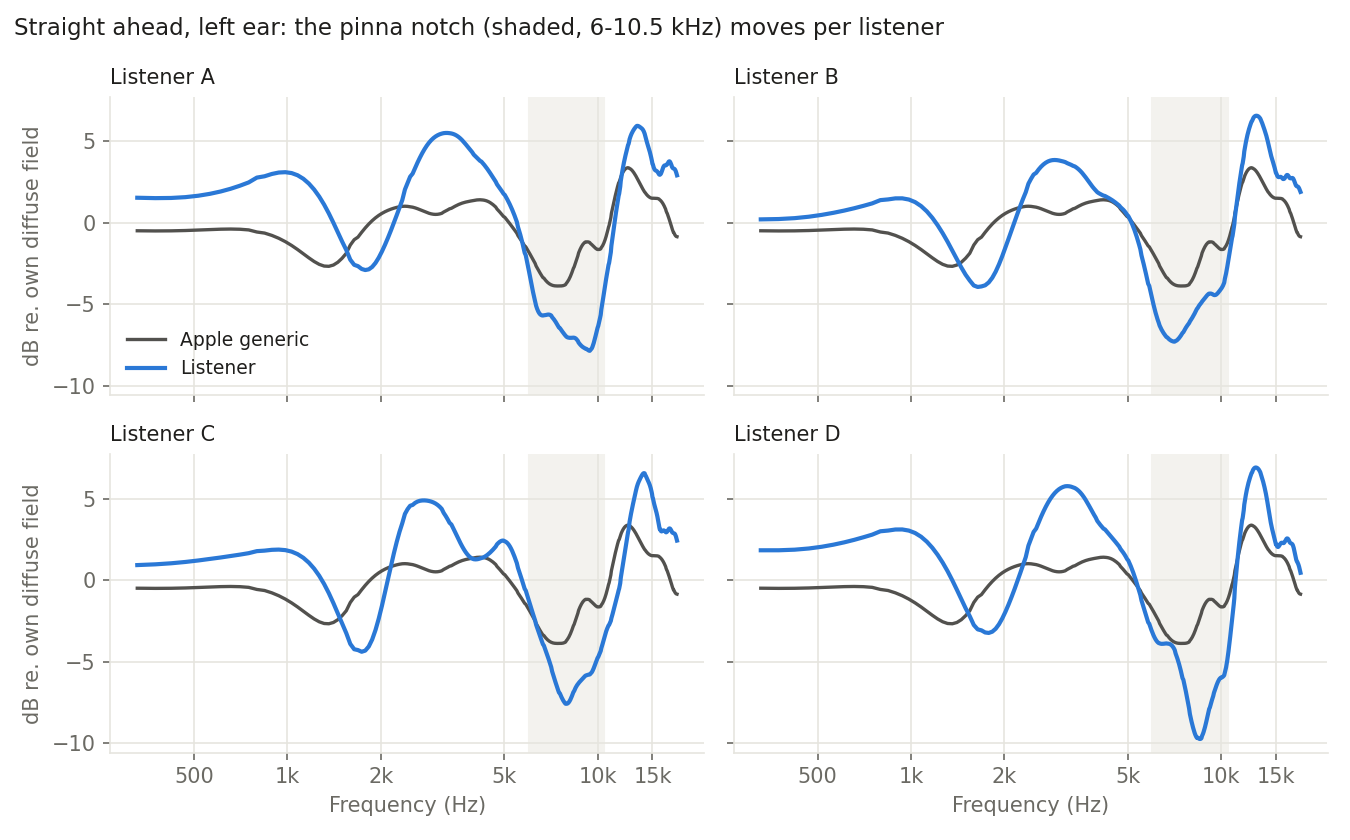
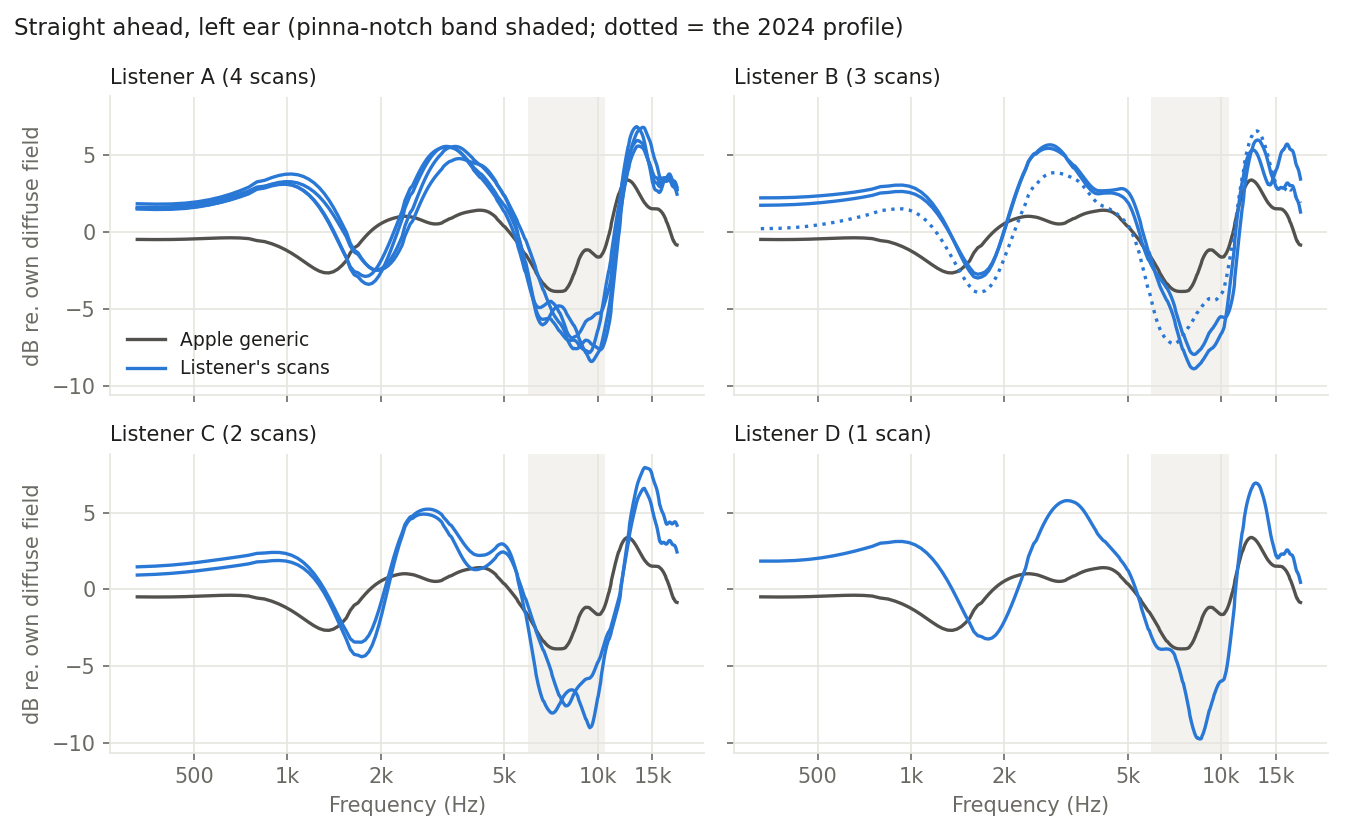
update results

diff --git a/README.md b/README.md
@@ -139,47 +139,56 @@ consistent (IR correlation ≈ 0.986, delays within ≈ 0.17 samples RMS).
 
 ## How personal is Apple's personalized HRTF?
 
-This compares four scans of one listener (A), one profile each from three more listeners (B, C and
-D), and Apple's generic HRTF that ships with macOS (`HRIR_General.ir` in AudioDSP.component). The
-profiles were made on four different iPhones, from 2024 to 2026. The comparison suggests
-Personalized Spatial Audio makes real but modest changes.
+This compares 10 profiles from four listeners and Apple's generic HRTF that ships with macOS
+(`HRIR_General.ir` in AudioDSP.component). Listener A has four scans, B three, C two and D one. The
+profiles were made on five different iPhones, from 2024 to 2026. The short version: Personalized
+Spatial Audio reliably personalizes head size (the ITD). Its spectral personalization is small, only
+slightly larger than the difference between two scans of the same person.
 
 **Most of every profile is a shared base head.** Each profile's directional curves (each direction
-relative to that profile's own diffuse field) sit 2.7–3.1 dB RMS from Apple's generic head. But all
-four move away from it in much the same way: the deviations are 66–82% correlated, and about 82% of
-their energy is common to all four listeners. What's individual on top of that base is about
-1.0–1.5 dB RMS. Listeners differ from each other by 1.6–2.6 dB RMS (2.0 dB on average), while repeat
-scans of listener A differ by 1.0–1.6 dB (1.2 dB on average). So the difference between two people
-is only about 1.5–2 times the scan-to-scan noise. It's largest above 5 kHz, where the pinna shapes
-the response.
+relative to that profile's own diffuse field) sit 2.9–3.1 dB RMS from Apple's generic head. But all
+four listeners move away from it in much the same way. Averaging each listener's scans, their
+deviations from the generic head are 77–90% correlated, and about 89% of the deviation energy is
+common to all four. What's individual on top of that shared base is about 0.7–1.2 dB RMS.
 
-![RMS difference of the directional curves over the whole sphere, by frequency: listener vs Apple's generic HRTF is highest at about 2.5-3.5 dB, listener vs listener is 0.9-2.6 dB, and repeat scans of the same listener are lowest at 0.6-1.7 dB](Figures/directional-differences.png)
+**Spectral differences between people are barely above scan noise.** Different listeners differ by
+1.6–2.2 dB RMS (1.85 dB on average). Repeat scans of the same listener differ by 0.9–2.1 dB (1.3 dB on
+average), so the two ranges overlap. The largest repeat-scan gap is listener B's 2024 profile against
+the two made in 2026 (1.8–2.1 dB). Those were made on a different iPhone two years apart, so it isn't
+possible to tell whether the scan or Apple's processing changed.
 
-**The clearest individual features are the pinna notch and head size.** The first pinna notch is
-the main cue for elevation and front/back. In front and at ±30°, it falls at 6.8–7.1 kHz for listener
-B, 7.6–8.4 kHz for C, 8.3–9.8 kHz for D and 8.2–10.1 kHz across A's four scans. For the generic head it
-falls at 6.3–7.5 kHz. A's scans move it by up to about 1.5 kHz, so only differences larger than that,
-such as A or D against B, clearly stand out from scan noise. The ITD at 90° ranges from 629 to 703 µs
-across the four listeners (about 11%), and is 721 µs for the generic head.
+![RMS difference of the directional curves over the whole sphere, by frequency: profiles vs Apple's generic HRTF are at about 2.5-3.6 dB; different listeners are at 0.9-2.3 dB, only slightly above repeat scans of the same listener at 0.7-1.8 dB](Figures/directional-differences.png)
 
-![Straight ahead, left ear, one panel per listener, each profile relative to its own diffuse field and compared with Apple's generic head: every listener has a larger 2-4 kHz bump than the generic head, and the 6-10 kHz notch sits at a different frequency for each](Figures/front-direction.png)
+![Straight ahead, left ear, one panel per listener with all of that listener's scans, each relative to its own diffuse field and compared with Apple's generic head: every profile has a larger 2-4 kHz bump and a deeper 6-10 kHz notch than the generic head, and repeat scans vary visibly](Figures/front-direction.png)
 
-![First pinna notch frequency, left ear, in front and at 30° left and right, one row per listener: listener A's four scans spread over 8.2-10.1 kHz, B sits at 6.8-7.1 kHz, C at 7.6-8.4 kHz, D at 8.3-9.8 kHz, and Apple's generic head at 6.3-7.5 kHz](Figures/pinna-notch.png)
+**The pinna notch is not reliably individual.** The first pinna notch is the main cue for elevation and
+front/back. Repeat scans move it by up to about 1.5 kHz: listener C's front notch is at 7.9 kHz in one
+scan and 9.4 kHz in the other. That's about as much as it differs between listeners. Across all profiles
+it falls at 6.5–10.1 kHz in front and at ±30°, against 6.3–7.5 kHz for the generic head.
 
-**A different HRTF dataset is much further away.** At its 27 directions, an unrelated third-party
-HRTF (3D Sound Labs, as shipped with VLC) differs from each profile by 4.4–4.6 dB RMS. The listeners
-differ from each other by 1.6–2.6 dB at the same directions. That suggests the per-person variation in
-Apple's profiles is smaller than real head-to-head differences. But the datasets were measured and
-processed differently, and only four people were compared.
+![First pinna notch frequency, left ear, in front and at 30° left and right, one row per listener: repeat scans of each listener spread over 1-2 kHz, overlapping the other listeners; Apple's generic head sits lower, at 6.3-7.5 kHz](Figures/pinna-notch.png)
+
+**Head size is the clearly individual feature.** The ITD at 90° varies by at most 22 µs between one
+listener's scans, but ranges from about 625 to 711 µs across listeners. For example, listener A is at
+700–711 µs, while B and C are at 625–647 µs. The generic head is at 721 µs.
+
+![ITD at 90 degrees per scan: listener A's scans cluster at 700-711 µs, B's at 625-647 µs, C's at 629-632 µs, D at 657 µs, and Apple's generic head at 721 µs](Figures/itd-head-size.png)
+
+**A different HRTF dataset is much further away.** At its 27 directions, an unrelated third-party HRTF
+(3D Sound Labs, as shipped with VLC) differs from the profiles by 4.4–4.6 dB RMS. Listeners differ from
+each other by 1.7–2.2 dB at the same directions. That suggests Apple's per-person spectral variation is
+much smaller than real head-to-head differences. But the datasets were measured and processed
+differently, and only four people were compared.
 
 **There is no personal diffuse-field response.** The stored HRIRs are diffuse-field equalized, so they
 carry no absolute diffuse-field response. The only absolute curve in the file is the 64-point CTF. It
-agrees within 1.8 dB across all four listeners and all scans, and peaks at 7.5–8.0 dB near 3.4 kHz for
-everyone. Apple's generic HRTFs on macOS are diffuse-field equalized too and have no CTF at all. That's
-why this tool doesn't export a diffuse-field HRTF: it would effectively be a population curve, not a
-personal one. A personal diffuse-field or eardrum target needs a real measurement, such as an
-audiologist's real-ear (REUR/REUG) measurement or in-ear microphones. For BRIR use this matters less:
-tools like ASH Toolset diffuse-field-calibrate each dataset anyway, so what reaches the BRIR is exactly
-the personal directional and timing part described above.
+agrees within 1.4 dB between one listener's scans and within 1.8 dB across all listeners, and peaks at
+7.0–8.0 dB near 3.4–3.75 kHz for everyone. Apple's generic HRTFs on macOS are diffuse-field equalized too
+and have no CTF at all. That's why this tool doesn't export a diffuse-field HRTF: it would effectively
+be a population curve, not a personal one. A personal diffuse-field or eardrum target needs a real
+measurement, such as an audiologist's real-ear (REUR/REUG) measurement or in-ear microphones. For BRIR
+use this matters less: tools like ASH Toolset diffuse-field-calibrate each dataset anyway, so what
+reaches the BRIR is the shared base head plus your ITD and the small spectral differences described
+above.
 
-![Apple's stored CTF, left ear, for listener A's four scans and listeners B, C and D: the curves overlap almost completely, peaking near 3.4 kHz and rolling off above 5 kHz](Figures/ctf-across-listeners.png)
+![Apple's stored CTF, left ear, for listener A's four scans and the six scans of listeners B, C and D: the curves overlap almost completely, peaking near 3.4 kHz and rolling off above 5 kHz](Figures/ctf-across-listeners.png)
